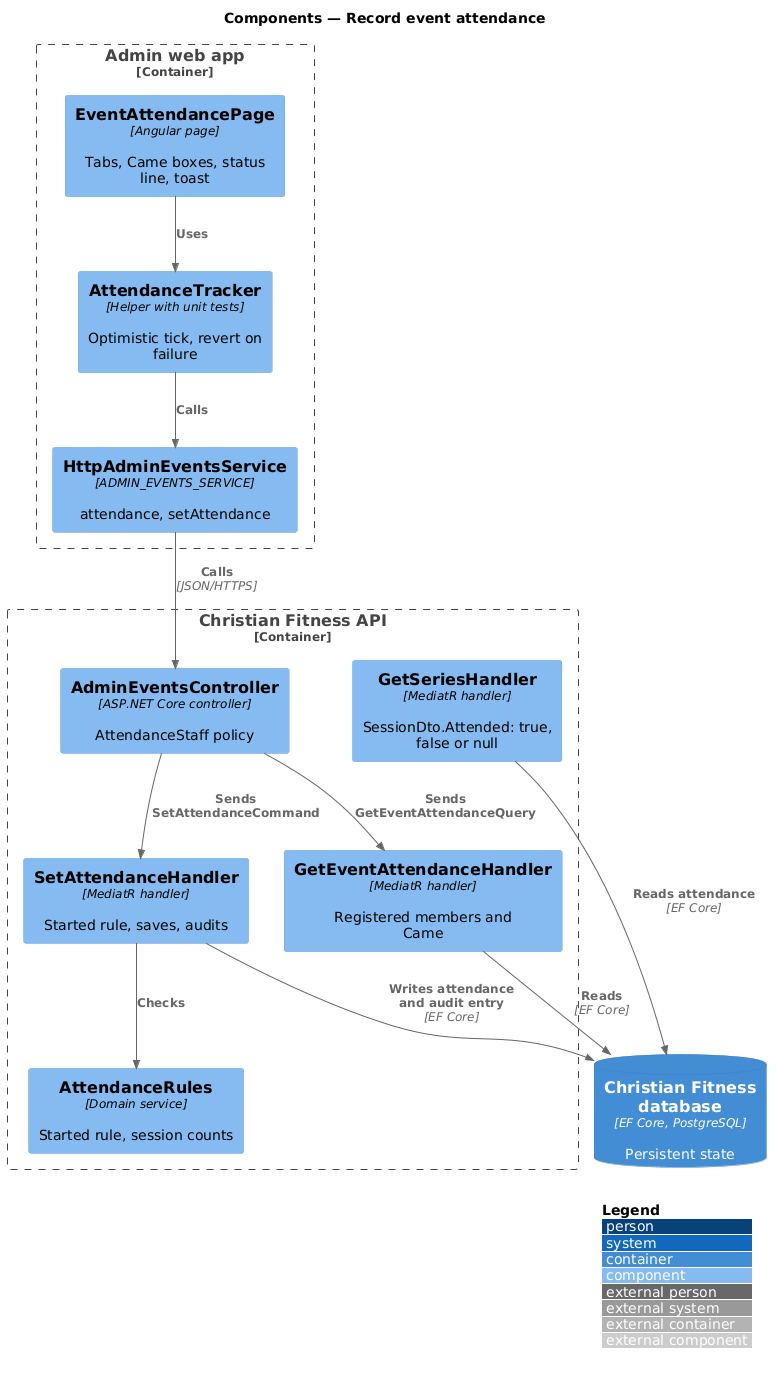
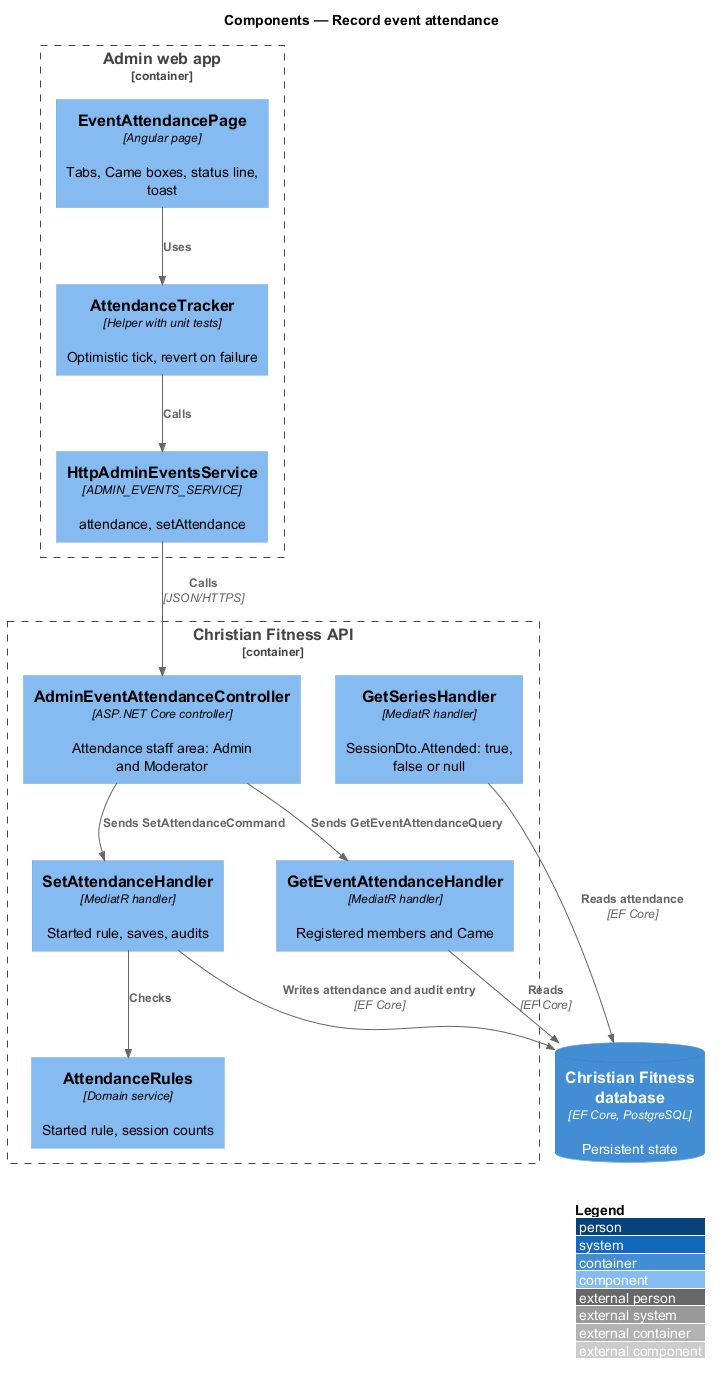
Journey 16: ADR 0106, the Attendance staff area, the endpoints, the audit and the busy box agreed across requirement, design and mock
Claude-Session: https://claude.ai/code/session_01GLzf8qqm1gng4PtyqJ9obe

Changed region(s): [[0.0, 0.0, 0.9973, 0.9782], [0.7555, 0.6419, 0.967, 0.7031]]

diff --git a/docs/design-system/components/checkbox.html b/docs/design-system/components/checkbox.html
@@ -44,7 +44,7 @@
 <p>Compact boxes are 16px (<code>--size-icon-sm</code>), group boxes 20px (<code>--size-icon-lg</code>). Each row is at least 44px tall in groups.</p>
     </section>
     <section class="ds-section" id="states"><h2><a href="#states">States</a></h2>
-<p>Pointer and focus forced with <code>data-state</code>; checked, disabled and invalid use real attributes. Indeterminate is set by script (<code>el.indeterminate = true</code>) for a parent of a partly checked list.</p><div class="ds-matrix"><table><thead><tr><th scope="col">Variant</th><th scope="col">Default</th><th scope="col">Hover</th><th scope="col">Focus</th><th scope="col">Checked</th><th scope="col">Disabled</th><th scope="col">Invalid</th></tr></thead><tbody><tr><th scope="row">Compact</th><td><label class="check"><input class="check__box" type="checkbox"> Going</label></td><td><label class="check"><input class="check__box" type="checkbox" data-state="hover"> Going</label></td><td><label class="check"><input class="check__box" type="checkbox" data-state="focus"> Going</label></td><td><label class="check"><input class="check__box" type="checkbox" checked> Going</label></td><td><label class="check"><input class="check__box" type="checkbox" disabled> Going</label></td><td>—</td></tr><tr><th scope="row">Group option</th><td><label class="choice"><input class="choice__input" type="checkbox"><span class="choice__label">Event reminders</span></label></td><td><label class="choice"><input class="choice__input" type="checkbox" data-state="hover"><span class="choice__label">Event reminders</span></label></td><td><label class="choice"><input class="choice__input" type="checkbox" data-state="focus"><span class="choice__label">Event reminders</span></label></td><td><label class="choice"><input class="choice__input" type="checkbox" checked><span class="choice__label">Event reminders</span></label></td><td><label class="choice"><input class="choice__input" type="checkbox" disabled><span class="choice__label">Event reminders</span></label></td><td><label class="choice"><input class="choice__input" type="checkbox" aria-invalid="true"><span class="choice__label">Event reminders</span></label></td></tr></tbody></table></div><h3>Both themes</h3><div class="ds-themes"><div data-theme="light"><div class="ds-example__canvas ds-flush"><label class="check check--ui"><input class="check__box" type="checkbox" name="tell" checked> It&#x27;s fine to tell them you suggested them</label><label class="check"><input class="check__box" type="checkbox"> Only events I'm going to</label></div></div><div data-theme="dark"><div class="ds-example__canvas ds-flush"><label class="check check--ui"><input class="check__box" type="checkbox" name="tell" checked> It&#x27;s fine to tell them you suggested them</label><label class="check"><input class="check__box" type="checkbox"> Only events I'm going to</label></div></div></div><ul><li><b>Invalid</b> (a required confirmation left unchecked) adds <code>aria-invalid</code> and a field error: "Confirm you've checked their credentials before listing them".</li><li><b>Disabled</b> dims the label to <code>--color-fg-disabled</code>.</li></ul>
+<p>Pointer and focus forced with <code>data-state</code>; checked, disabled and invalid use real attributes. Indeterminate is set by script (<code>el.indeterminate = true</code>) for a parent of a partly checked list.</p><div class="ds-matrix"><table><thead><tr><th scope="col">Variant</th><th scope="col">Default</th><th scope="col">Hover</th><th scope="col">Focus</th><th scope="col">Checked</th><th scope="col">Disabled</th><th scope="col">Invalid</th></tr></thead><tbody><tr><th scope="row">Compact</th><td><label class="check"><input class="check__box" type="checkbox"> Going</label></td><td><label class="check"><input class="check__box" type="checkbox" data-state="hover"> Going</label></td><td><label class="check"><input class="check__box" type="checkbox" data-state="focus"> Going</label></td><td><label class="check"><input class="check__box" type="checkbox" checked> Going</label></td><td><label class="check"><input class="check__box" type="checkbox" disabled> Going</label></td><td>—</td></tr><tr><th scope="row">Group option</th><td><label class="choice"><input class="choice__input" type="checkbox"><span class="choice__label">Event reminders</span></label></td><td><label class="choice"><input class="choice__input" type="checkbox" data-state="hover"><span class="choice__label">Event reminders</span></label></td><td><label class="choice"><input class="choice__input" type="checkbox" data-state="focus"><span class="choice__label">Event reminders</span></label></td><td><label class="choice"><input class="choice__input" type="checkbox" checked><span class="choice__label">Event reminders</span></label></td><td><label class="choice"><input class="choice__input" type="checkbox" disabled><span class="choice__label">Event reminders</span></label></td><td><label class="choice"><input class="choice__input" type="checkbox" aria-invalid="true"><span class="choice__label">Event reminders</span></label></td></tr></tbody></table></div><h3>Both themes</h3><div class="ds-themes"><div data-theme="light"><div class="ds-example__canvas ds-flush"><label class="check check--ui"><input class="check__box" type="checkbox" name="tell" checked> It&#x27;s fine to tell them you suggested them</label><label class="check"><input class="check__box" type="checkbox"> Only events I'm going to</label></div></div><div data-theme="dark"><div class="ds-example__canvas ds-flush"><label class="check check--ui"><input class="check__box" type="checkbox" name="tell" checked> It&#x27;s fine to tell them you suggested them</label><label class="check"><input class="check__box" type="checkbox"> Only events I'm going to</label></div></div></div><ul><li><b>Invalid</b> (a required confirmation left unchecked) adds <code>aria-invalid</code> and a field error: "Confirm you've checked their credentials before listing them".</li><li><b>Disabled</b> dims the label to <code>--color-fg-disabled</code>.</li><li><b>Busy</b> (a box in a list that saves as it is ticked, such as Came on Attendance; ADR 0106) adds <code>aria-busy="true"</code> and its words read "Saving…" while the change is saved. It stays enabled, so focus stays on it and a failed save can put it back.</li></ul>
     </section>
     <section class="ds-section" id="responsive"><h2><a href="#responsive">Responsive behaviour</a></h2>
 <ul><li>Compact checks never wrap (filter bars scroll instead).</li><li>Form checks and groups wrap their labels; the box stays top-aligned.</li></ul>
@@ -56,7 +56,7 @@
 <h3>Role and pattern</h3><p>Native checkbox inside a <code>&lt;label&gt;</code>. Groups use <code>&lt;fieldset&gt;</code> and <code>&lt;legend&gt;</code> (<a href="https://www.w3.org/WAI/ARIA/apg/patterns/checkbox/">APG Checkbox</a>).</p>
 <h3>Keyboard</h3><table class="ds-table ds-keys"><thead><tr><th scope="col">Key</th><th scope="col">Action</th></tr></thead><tbody><tr><td><kbd>Tab</kbd></td><td>Moves to each checkbox in turn.</td></tr><tr><td><kbd>Space</kbd></td><td>Toggles the focused checkbox.</td></tr></tbody></table>
 <h3>Focus</h3><p>The shared 2px <code>--color-focus-ring</code> outline at 2px offset around the box.</p>
-<h3>Labelling</h3><p>The wrapping label is the name; descriptions are inside the label so they are read with it. Group errors link from the fieldset with <code>aria-describedby</code>.</p>
+<h3>Labelling</h3><p>The wrapping label is the name; descriptions are inside the label so they are read with it. A box whose words change (Came, then Saving…) is named by <code>aria-label</code> ("Came: Grace Thompson"), so its name holds while it saves. Group errors link from the fieldset with <code>aria-describedby</code>.</p>
 <h3>Contrast</h3><div class="ds-pairs"><div class="ds-pair"><span>Label on surface</span><span class="ds-pair__ratio" data-contrast="--color-fg-default|--color-bg-surface" data-min="4.5"></span></div><div class="ds-pair"><span>Description</span><span class="ds-pair__ratio" data-contrast="--color-fg-muted|--color-bg-surface" data-min="4.5"></span></div><div class="ds-pair"><span>Checked box on surface</span><span class="ds-pair__ratio" data-contrast="--color-accent|--color-bg-surface" data-min="3"></span></div><div class="ds-pair"><span>Invalid outline</span><span class="ds-pair__ratio" data-contrast="--color-danger-fg|--color-bg-surface" data-min="3"></span></div></div>
 <h3>Motion</h3><p>None.</p>
 <h3>Touch</h3><p>The whole label is the target; group rows are at least 44px (<code>--target-comfortable</code>). Compact checks in the filter bar extend with padding.</p>

diff --git a/docs/mocks/pages/admin-event-attendance/failed.html b/docs/mocks/pages/admin-event-attendance/failed.html
@@ -74,7 +74,7 @@
     </div>
   </main>
 </div>
-<section class="toast-region toast-region--admin" aria-label="Notifications"><div class="toast toast--danger" role="alert"><svg class="icon" viewBox="0 0 24 24" aria-hidden="true"><circle cx="12" cy="12" r="10"/><line x1="12" x2="12" y1="8" y2="12"/><line x1="12" x2="12.01" y1="16" y2="16"/></svg><div class="toast__body"><p class="toast__title">We couldn't save Hannah Kim</p><p class="toast__text">Her box is back as it was. Try again.</p></div></div></section>
+<section class="toast-region toast-region--admin" aria-label="Notifications"><div class="toast toast--danger" role="alert"><svg class="icon" viewBox="0 0 24 24" aria-hidden="true"><circle cx="12" cy="12" r="10"/><line x1="12" x2="12" y1="8" y2="12"/><line x1="12" x2="12.01" y1="16" y2="16"/></svg><div class="toast__body"><p class="toast__title">We couldn't save Hannah Kim</p><p class="toast__text">Their box is back as it was. Try again.</p></div></div></section>
 <nav class="mock-bar" aria-label="Mock navigation">
   <a class="mock-bar__home" href="../../index.html" aria-label="All mocks">⌂</a>
   <span class="mock-bar__screen">Event attendance</span>

diff --git a/docs/detailed-designs/admin-events/record-attendance/README.md b/docs/detailed-designs/admin-events/record-attendance/README.md
@@ -14,18 +14,19 @@ Until attendance is recorded the series page reads "Not recorded", and "Came to 
 
 The feature is a vertical slice from the Attendance tab of an Admin event to the database, and a read on the member's series page.
 
-- **`EventAttendancePage`** — routed page of the events area (`/admin/events/:id/attendance`), loaded with `loadComponent`, with the title "Event attendance". Mocks: `docs/mocks/pages/admin-event-attendance/` (`default`, `saving`, `failed`, `empty`, `not-started`, `loading`, `error`). It shows the event title, the `tabs` component with Registrations and Attendance (the current one marked), a status line ("Came: <n> of <registered>", a polite live region) and a `table` of names with one `checkbox` ("Came") each. It binds `ADMIN_EVENTS_SERVICE` on its own `providers`.
-- **`AttendanceTracker`** — helper with unit tests, one case per row of the rule table: a tick sets the box at once and marks it busy; when the save fails the box goes back and the toast `We couldn't save <name>` shows; other boxes stay usable. It keeps one pending request per member and releases them when the page is destroyed (`AbortController`, `takeUntilDestroyed`). The count is computed from the rows.
-- **Components used** — design-system `tabs`, `table`, `checkbox`, `toast`, `empty-state`, `error-state` and `skeleton`, from the components library. No new component is needed.
+- **`EventAttendancePage`** — routed page of the events area (`/admin/events/:id/attendance`), loaded with `loadComponent`, with the title "Event attendance". Mocks: `docs/mocks/pages/admin-event-attendance/` (`default`, `saving`, `failed`, `empty`, `not-started`, `loading`, `error`). It shows the event title, the `tabs` component with Registrations and Attendance (the current one marked), a status line ("Came: <n> of <registered>", a polite live region) and a `table` of names with one `checkbox` ("Came") each. It binds `ADMIN_EVENTS_SERVICE`, `TOASTS_SERVICE` and `AttendanceTracker` on its own `providers`. The Registrations page shows the same two tabs.
+- **`AttendanceTracker`** — store in the domain library with unit tests, one case per row of the rule table: a tick sets the box at once and marks it busy; when the save fails the box goes back to the last saved value and the danger toast `We couldn't save <name>` ("Their box is back as it was. Try again.") shows; other boxes stay usable. It keeps one request per member in flight: a tick on a busy box is shown and sent when the first answers, so the last tick wins (ADR 0106). Its requests end when the page is destroyed. The count is computed from the rows.
+- **Components used** — design-system `tabs`, `table`, `checkbox`, `toast`, `empty-state`, `error-state` and `skeleton`, from the components library. No new component is needed; the `checkbox` gains a busy state and a name by `aria-label` (ADR 0106).
 - **`AdminEventsApi.attendance(id)`** and **`setAttendance(id, memberId, came)`** — contract methods on `ADMIN_EVENTS_SERVICE`; a refusal carries a `code`, and the page shows a generic message.
-- **`AdminEventsController`** — `GET /api/admin/events/{id}/attendance` and `PUT /api/admin/events/{id}/attendance/{memberId}`. Both use a new staff policy `AttendanceStaff` that admits Admin and Moderator (`L2-019` AC1 and AC5 as amended); every other Events endpoint stays `AdminOnly`.
-- **`GetEventAttendanceQuery`** / handler — returns `AttendancePageDto` (`Started`, `Registered`, `Came`, `Items` of `MemberId`, `MemberName`, `Came`) for the registered members, ordered by name. An unknown event is refused with `event_not_found`.
-- **`SetAttendanceCommand`** / handler — refuses an event that has not started with `event_not_started` (409) and a member with no registration at the event with `not_registered` (404); otherwise it upserts an `Attendance` row (`EventId`, `MemberId`, `Came`, `RecordedBy`, `RecordedAt`) and writes an audit entry of who, which event and how many members were marked (`L2-019` AC3). The rule "started" is `AttendanceRules.HasStarted(event, now)` over `TimeProvider`.
+- **`AdminEventAttendanceController`** — `GET /api/admin/events/{id}/attendance` and `PUT /api/admin/events/{id}/attendance/{memberId}` with `{ came }` (204). Its route is the staff area `Attendance`, which admits Admin and Moderator (`L2-019` AC1 and AC5 as amended); every other Events endpoint stays Admins only (ADR 0106).
+- **`GetEventAttendanceQuery`** / handler — returns `EventAttendanceDto` (`EventId`, `Title`, `StartsAt`, `Started`, `Registered`, `Came`, `Items` of `MemberId`, `Name`, `Came`) for the registered members, ordered by name, at most 500; before the start `Items` is empty. An unknown event is refused with `event_not_found`.
+- **`SetAttendanceCommand`** / handler — refuses an event that has not started with `event_not_started` (409) and a member with no registration at the event with `not_registered` (404); otherwise it upserts an `Attendance` row (`EventId`, `MemberId`, `Came`, `RecordedBy`, `RecordedAt`) and writes an audit entry `event.attendance_recorded` of who and which event, one per saved change, so the entries count how many members were marked (`L2-019` AC3; ADR 0106); saving the value already recorded records nothing. The rule "started" is `AttendanceRules.HasStarted(event, now)` over `TimeProvider`.
 - **Registration is the roster** — whoever holds a `Registration` at the event is listed, whether they joined the series or dropped in. Enrolment and going counts do not change when attendance does (`L2-080` AC8).
 - **`GetSeriesHandler`** — adds `SessionDto.Attended` as `true`, `false` or `null`. `null` means no `Attendance` row for that member at that session.
 - **`sessionRowViewOf`** — for a past session where the member held a place, gives "You came" for `true`, "Missed" for `false` and "Not recorded" for `null`; "Done" where they held none (`view-event-series`).
 - **"Came to <attended> of <recorded>"** — `seriesProgressOf` counts `Attended === true` over past sessions where `Attended !== null`; when none is recorded the panel reads "Attendance not recorded yet" (`join-and-leave-series`).
-- Telemetry records the route template and the number of rows only; no name, member id or contact detail reaches a log, metric or span.
+- A member's session is refused like nobody's (401, ADR 0011); a staff member whose role was taken away, 403 `not_staff` (`L2-080` AC9 as amended).
+- Telemetry records the route template only; no name, member id or contact detail reaches a log, metric or span.
 
 ### Open questions
 

diff --git a/docs/adr/0106-record-event-attendance.md b/docs/adr/0106-record-event-attendance.md
@@ -1,0 +1,85 @@
+# 0106. Record event attendance: the Attendance staff area, the endpoints and their answers, one `Attendance` row per member and event, the audit, the busy box, and what members read
+
+## Status
+
+Accepted, 26 November 2026 (journey 16, issue 166). Builds on ADR 0011, ADR 0020, ADR 0023,
+ADR 0036, ADR 0064, ADR 0096, ADR 0101 and ADR 0102; amends `L2-080` AC9, the detailed design
+`admin-events/record-attendance`, the mock `admin-event-attendance/failed` and the design
+system's `checkbox`.
+
+## Context
+
+Journey 16 lets staff tick who came to an event (`L2-080`) and shows members "You came",
+"Missed", "Not recorded" and "Came to <attended> of <recorded>" on their series (`L2-051` AC3,
+`L2-052` AC3 and AC9). The requirement, design and mocks left these open or disagreed:
+
+- The design puts both endpoints on `AdminEventsController` under a new policy that admits
+  Moderators, but a staff area is decided per controller from its route's first segment (ADR
+  0020), and every `api/admin/events` route is the Events area, Admins only.
+- The design's `AttendancePageDto` has no title or start, yet the page shows the event's title
+  and, before the start, "<title> starts <when>". A Moderator cannot read the event itself
+  (`GET /api/admin/events/{id}` is Events).
+- The design leaves the answer of a saved tick open, and what happens on a second tick of a box
+  whose save is still on its way.
+- `L2-080` AC9 asks for "how many members were marked" in the audit entry, which records only who,
+  what, which record and when (ADR 0023).
+- `L2-080` AC9 says a member is refused with HTTP 403, but a member's session on `api/admin`
+  answers 401 like nobody's (ADR 0011), as every admin endpoint does.
+- The mock's toast reads "Her box is back as it was"; the app does not know a member's pronouns.
+- The design-system checkbox has no busy state, and its name changes when its words read
+  "Saving…"; the design system also says a choice that applies at once is a switch.
+
+## Decision
+
+- **The Attendance staff area.** A new `StaffArea.Attendance`, open to Admins and Moderators
+  (`StaffAccess`), is the area of the route template `api/admin/events/{id:guid}/attendance`,
+  matched ahead of the `events` segment. The endpoints live on their own controller,
+  `AdminEventAttendanceController`, routed there; every other Events route stays Admins only.
+- **Endpoints.** `GET /api/admin/events/{id}/attendance` answers `{ eventId, title, startsAt,
+  started, registered, came, items }`, `items` being `{ memberId, name, came }` for each member
+  holding a registration at the event, ordered by name and then member id, at most 500 (as ADR
+  0036). Before the start `started` is false and `items` is empty, while `registered` still counts
+  the registrations ("17 members are registered"). `came` is `true` only where staff saved a tick.
+  `PUT /api/admin/events/{id}/attendance/{memberId}` with `{ came }` saves it and answers 204.
+  Refusals: 404 `event_not_found`, 409 `event_not_started` (the start is after the API's clock,
+  `AttendanceRules.HasStarted`), 404 `not_registered` (no registration of that member there).
+- **One row per member and event.** `Attendance` (`EventId`, `MemberId`, `Came`, `RecordedBy`,
+  `RecordedAt`), unique on the pair. A tick or a clear upserts it; either makes the session
+  recorded for that member. Two staff saving the same member at once: the later insert meets the
+  unique index, reloads the row and updates it. Registrations, enrolment and going counts are not
+  touched (`L2-080` AC8).
+- **The audit.** Each saved change is one entry, `event.attendance_recorded`, on the `Event`, by
+  the staff member. A tick marks one member, so how many members were marked is the number of
+  entries for the event, and the entry stays free of the member's id and name (ADR 0023). Saving
+  the value already recorded changes nothing and records nothing. Telemetry adds no tag: the
+  route is its template.
+- **The refusal for members.** `L2-080` AC9 now reads that a member's session is refused like
+  nobody's (HTTP 401, ADR 0011), and a staff member whose role was taken away with HTTP 403
+  `not_staff` (`L2-019` AC4).
+- **The page.** `/events/:id/attendance` in the admin app, a routed page with the event tabs
+  Registrations and Attendance (the Registrations page gains them too). Moderators reach it by its
+  address; the Events list stays Admins only (the design's open question stands).
+- **The tick.** `AttendanceTracker` (domain, provided on the page) shows a tick at once, marks the
+  box busy ("Saving <name>…" in the polite status line, the box's words "Saving…",
+  `aria-busy="true"`) and sends it. A second tick while the first is on its way is shown and sent
+  once the first answers, so the last tick wins and only one request per member is in flight. A
+  failure puts the box back to the last saved value and shows the danger toast "We couldn't save
+  <name>" with "Their box is back as it was. Try again."; focus stays on the box, which is never
+  disabled, and no other box changes. The count, "Came: <n> of <registered>", is read from the
+  boxes shown.
+- **The checkbox.** The design-system checkbox gains a busy state (`aria-busy="true"`, still
+  enabled) and an accessible name by `aria-label` for a box whose words change ("Came: Grace
+  Thompson"). A Came box is a record in a list of people, as the requirement names it, so it stays
+  a checkbox although it saves at once.
+- **What members read.** `SeriesSessionDto` gains `attended`: `true`, `false`, or `null` where no
+  row exists for the signed-in member at that session. A past session where they held a place
+  reads "You came" (with the check icon, `session-row__came`), "Missed" or "Not recorded"; one
+  where they held none reads "Done". "Came to <attended> of <recorded>" counts past sessions whose
+  `attended` is not `null`; with none it reads "Attendance not recorded yet". The meter's bar of a
+  session the member came to is `done`.
+
+## Consequences
+
+- A Moderator records attendance only by the address until the design's open question is decided.
+- The audit can tell how many ticks were saved for an event, not who was marked, by design.
+- The Members table's "events attended" does not yet read these rows.

diff --git a/docs/adr/README.md b/docs/adr/README.md
@@ -106,3 +106,4 @@ from the platform's best practice needs one (AGENTS.md, "Prefer best practice").
 | [0103](0103-cancel-and-restore-series-dates.md) | Cancel and restore series dates: those holding a place are told (joined by enrolment, else dropped in), `started`, `joinedGoing` and `droppedInGoing` on each session, `POST …/sessions/{sessionId}/cancel` and `…/restore` answering `{ series, told }`, `session_started` and `event_not_cancelled`, `Event.Restore(now)` for sessions only, a chat notice as Christian Fitness on both and a `series-date-cancelled` notification on cancel, a cancelled session not `held`, the dialog wording without refunds, the restored toast and one action button per row | Accepted |
 | [0104](0104-schedule-stories.md) | Schedule stories: `POST {id}/schedule` with a Toronto `publishDate` and `publishTime` and `POST {id}/unschedule`, Publish now from Scheduled, `publish_date_required`, `publish_time_required` and `publish_at_in_past`, `publishAt` on the admin story, a past-due story read and caught up as Published at its scheduled time, the `SchedulerLeases` row renewed for 60 seconds each 30-second tick, and at most 100 stories a tick, each saved alone | Accepted |
 | [0105](0105-read-a-story.md) | Read a story: `GET /api/public/stories/{slug}` answering the text for the one renderer, former links from `FormerSlugs`, Keep reading (same section first), the reading time at 220 words a minute in one domain helper, the site top bar as the story masthead, `stories/:slug` routed for visitors and in the member shell, Copy link through `CLIPBOARD_SERVICE`, the shell read over loopback from the same replica's web container with nginx falling back to the plain app, reads counted once a day per browser by hashed ids in local storage, and the shell outside `public-reads` | Accepted |
+| [0106](0106-record-event-attendance.md) | Record event attendance: a `StaffArea.Attendance` open to Moderators for `api/admin/events/{id}/attendance` on its own controller, `GET` answering the title, start, `started`, `registered`, `came` and the registered members by name, `PUT …/{memberId}` with `{ came }` answering 204, `event_not_found`, `event_not_started` and `not_registered`, one `Attendance` row per member and event, one `event.attendance_recorded` audit entry per saved change, the last tick winning while one is in flight, the checkbox's busy state and `aria-label`, and `attended` on a member's series sessions | Accepted |

diff --git a/docs/specs/L2.md b/docs/specs/L2.md
@@ -1398,7 +1398,7 @@ page (L2-051 AC3, L2-052 AC3).
 6. Given an event that started with no one registered, when staff open Attendance, then an empty state says "No one to mark yet" and where names come from; given the list is loading, then skeleton rows show; given it cannot be loaded, then an error state offers Try again.
 7. Given a member's series page, when a past session has no attendance recorded, then it reads "Not recorded", and "Came to <attended> of <recorded>" counts only past sessions with attendance recorded; once staff record it, "You came" or "Missed" shows.
 8. Given an event that is a series session, when a member is registered at it, then they are listed, and the series' enrolment does not change when attendance does.
-9. Given an Admin or Moderator, when they record attendance, then an audit entry records who, which event and how many members were marked (L2-019 AC3), and no span, metric or log carries a member's name or contact detail; a member (not staff) is refused with HTTP 403.
+9. Given an Admin or Moderator, when they record attendance, then an audit entry records who, which event and how many members were marked (L2-019 AC3), and no span, metric or log carries a member's name or contact detail; a member's session is refused like nobody's (HTTP 401, ADR 0011) and a staff member whose role was taken away with HTTP 403 and code `not_staff` (ADR 0106).
 10. Given viewport below LG, when Attendance shows, then the list stays one column with each Came box and name in a row of at least 44 px, without horizontal page scroll, and every box works by keyboard and by touch.
 11. Given a member's name, when it is rendered, then it is rendered as text, never as HTML.
 
